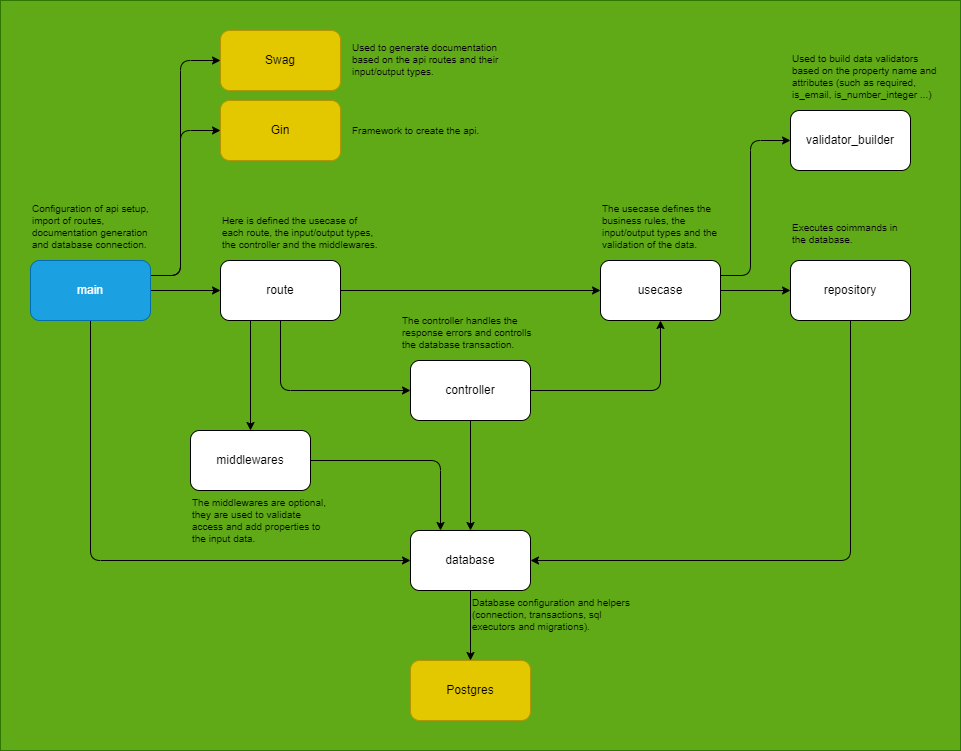
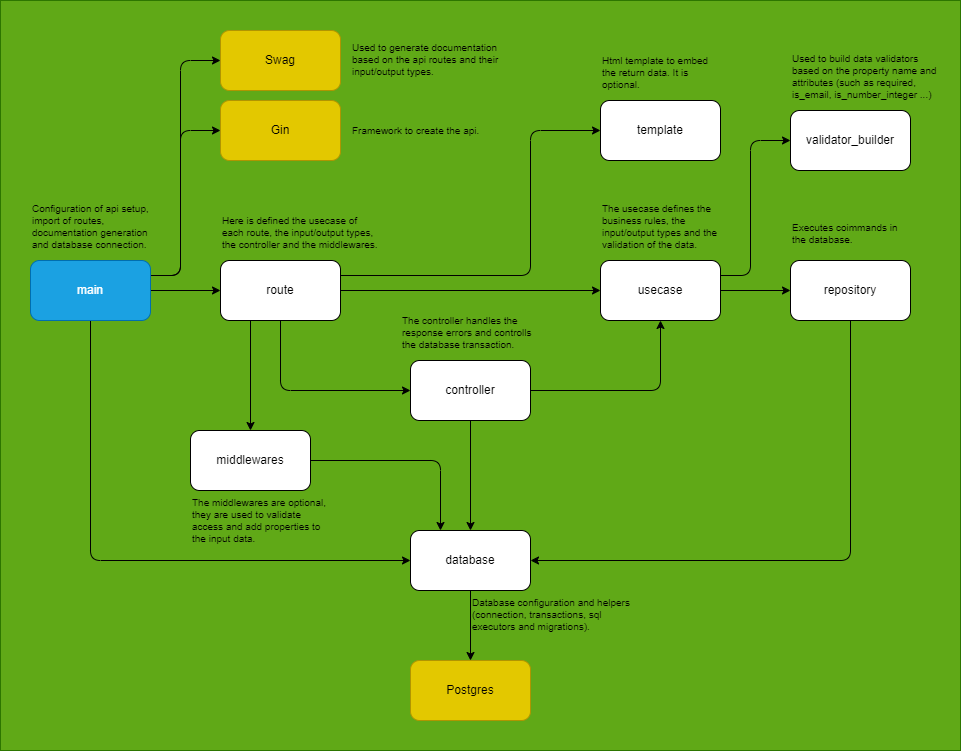
docs: implement documentation

Changed region(s): [[0.6243, 0.0613, 0.7492, 0.2144]]

diff --git a/README.md b/README.md
@@ -46,6 +46,9 @@ Used to validate access and add properties to the input data. All midddlewares c
 ### Routes
 All routes are defined in the `src/main/routes` directory. Each route is a struct that contains the name, path, method, controller, middlewares, request type and response type.
 
+### Templates
+Every route can be configured to use a HTML template to embed the returned data. All templates can be found in the `src/presentation/templates` directory.
+
 ### Main
 The `main.go` file is the entry point of the api. It is responsible for starting the api, importing the routes and generating the documentation automatically based on the routes.
 
